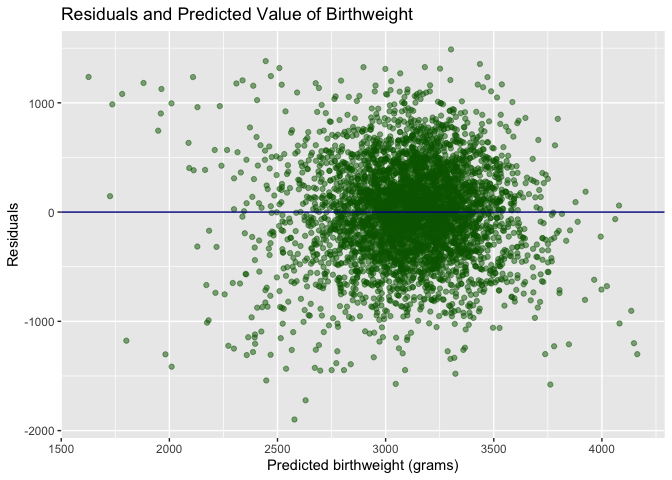
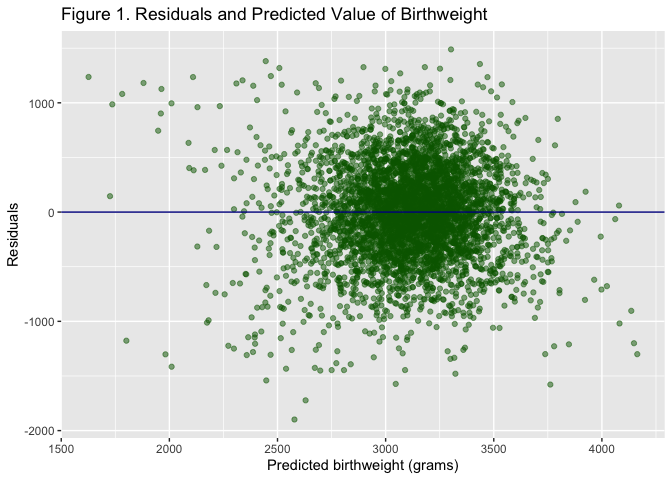
Renamed figures, etc

Changed region(s): [[0.0938, 0.0, 0.7188, 0.0625]]

diff --git a/p8105_hw6_az2356.md b/p8105_hw6_az2356.md
@@ -38,9 +38,9 @@ the mother’s prenatal health.
 
 ![](p8105_hw6_az2356_files/figure-gfm/unnamed-chunk-2-1.png)<!-- -->
 
-Comparison of my model to 1) one using length at birth and gestational
-age, 2) one using head circumference, length, sex, and all interactions
-thereof.
+Comparison of my model to one using length at birth and gestational age
+(Figure 2, Model 2), and one using head circumference, length, sex, and
+all interactions thereof (Figure 2, Model 3).
 
 | term        |     estimate | std.error |  statistic | p.value |
 | :---------- | -----------: | --------: | ---------: | ------: |
@@ -68,5 +68,12 @@ thereof.
 |  0.684876 |      0.684367 | 287.7344 |  1345.616 |       0 |  8 | \-30741.6 | 61501.19 | 61558.58 | 358816655 |        4334 |
 
 ![](p8105_hw6_az2356_files/figure-gfm/unnamed-chunk-3-1.png)<!-- -->
+
+# Models
+
+As shown in Figure 2, my clinical, maternal-focused model is high in
+prediction error, the highest of the three models. Although there is no
+test and thus no statistical significance, my model clearly has a much
+higher RMSE than the other models.
 
 ## Problem 2
